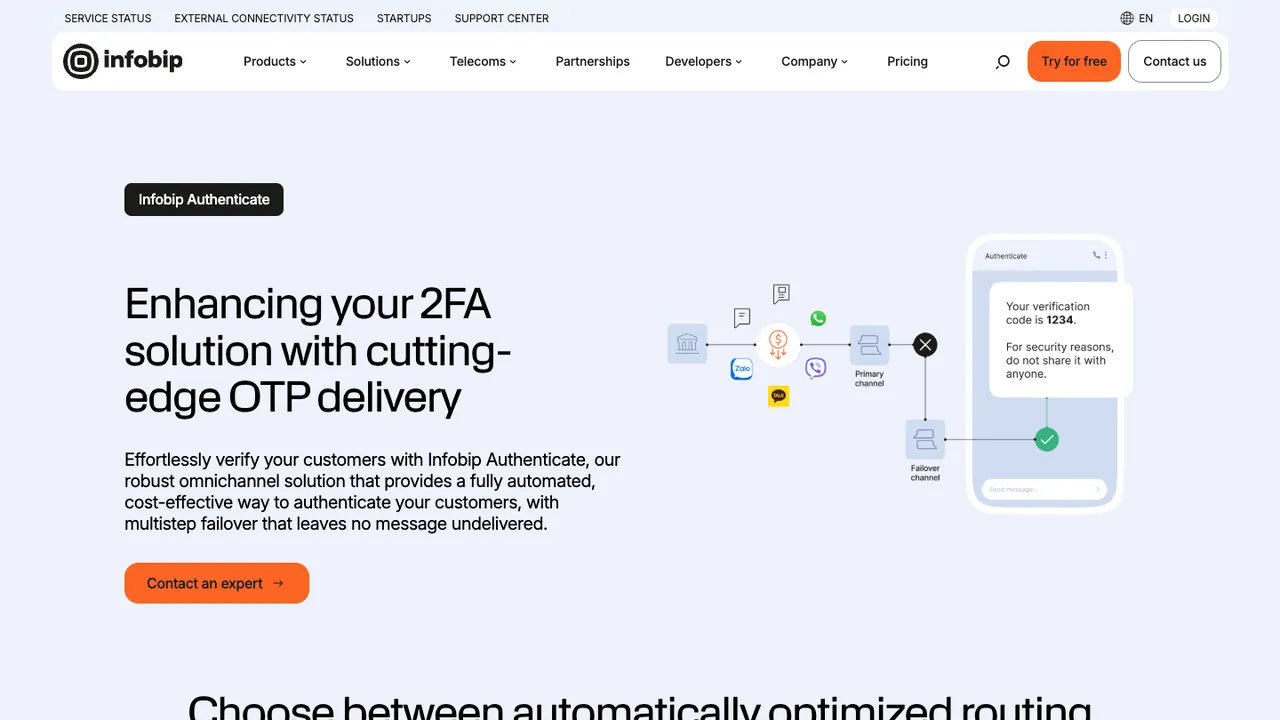
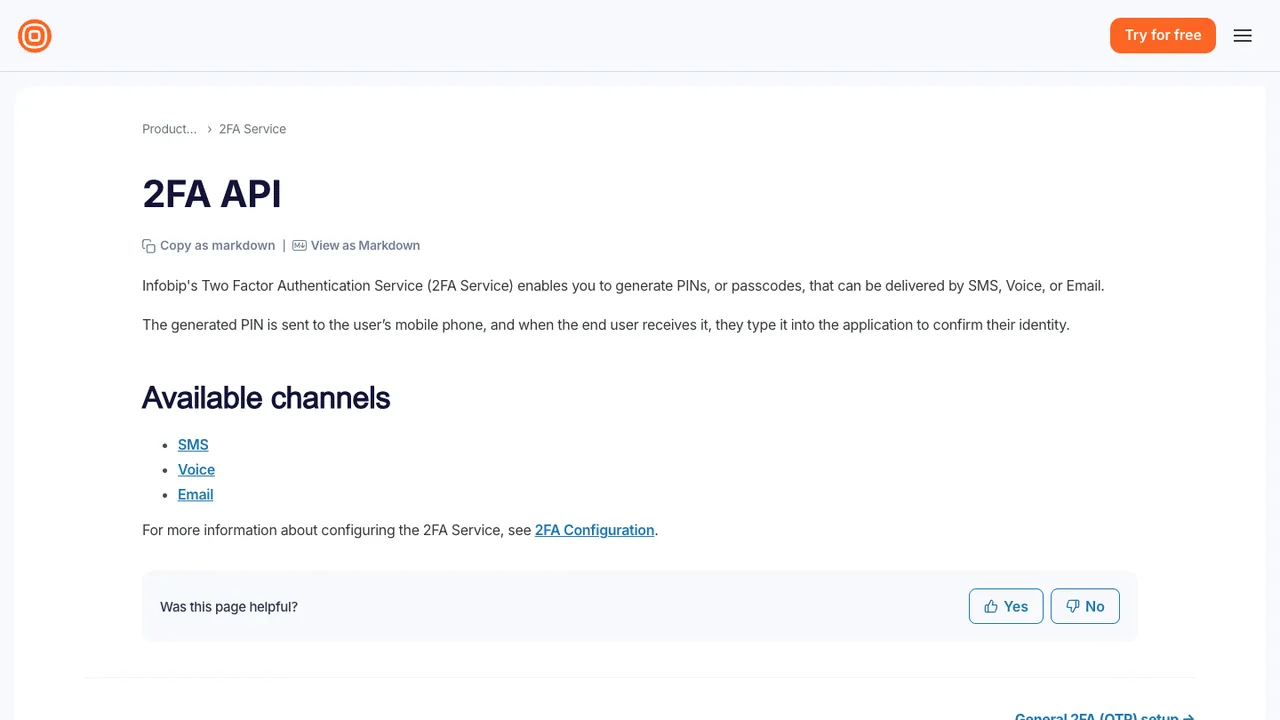
SMS OTP article: align Plivo facts, point Infobip at its 2FA API page
Plivo: its product and pricing pages list SMS, voice and WhatsApp with
no separate verification fee, while its availability docs describe SMS
and voice under a minimum monthly commitment. The article now says so
(matching the Twilio Verify alternatives article) instead of stating
that Plivo lacks WhatsApp.

Infobip: the copy describes the 2FA API (SMS, voice, email), so the
link and screenshot now use infobip.com/docs/2fa-service (captured 27
September 2026) instead of the Authenticate product page.

diff --git a/blog/best-sms-otp-providers/index.html b/blog/best-sms-otp-providers/index.html
@@ -232,11 +232,12 @@
       <figure class="post-shot">
         <img src="/assets/blog/best-sms-otp-providers/plivo-hero.webp" alt="Plivo Verify product page, with the headline “Verify new users with Plivo” and a phone showing a verification code." width="1280" height="720" loading="lazy" decoding="async">
       </figure>
-      <p><a href="https://www.plivo.com/verify/" target="_blank" rel="nofollow noopener">Plivo Verify</a> is a managed OTP service for sending and validating verification codes over SMS and voice. Like Twilio Verify, it handles OTP generation and validation, so you can add phone verification without building the full OTP lifecycle yourself.</p>
+      <p><a href="https://www.plivo.com/verify/" target="_blank" rel="nofollow noopener">Plivo Verify</a> is a managed OTP service for sending and validating verification codes over SMS, voice, and WhatsApp. Like Twilio Verify, it handles OTP generation and validation, so you can add phone verification without building the full OTP lifecycle yourself.</p>
       <p>A verification starts by sending the recipient’s phone number and delivery channel to the Verify API. Plivo generates the OTP and creates a verification session, and you use its Validate Session API to check the code entered by the user. You can also receive delivery status updates through webhooks.</p>
       <p>Plivo includes Fraud Shield for detecting SMS pumping. It monitors verification traffic and blocks messages it considers suspicious, with high, medium, and low protection levels depending on how aggressively you want it to filter traffic.</p>
       <p>Plivo Verify is currently offered to direct brands rather than resellers or ISVs, and access requires a minimum monthly commitment. A $1,000 monthly commitment covers the US, Canada, UK, Australia, India through ILDO routes, and countries that don’t require pre-registration. A $10,000 commitment adds markets where sender or brand registration is required.</p>
-      <p>Plivo Verify currently supports SMS and voice, so teams looking for WhatsApp or other messaging channels within the same verification product will find fewer options than with some of the other providers in this list.</p>
+      <p>Plivo doesn’t charge a separate verification fee, so you pay only the SMS, voice, or WhatsApp charges for the messages and calls used.</p>
+      <p>Plivo’s Verify product page lists SMS, voice, and WhatsApp, while its Verify availability documentation describes delivery over SMS and voice. If you plan to use WhatsApp, confirm that it’s enabled for your account.</p>
       <h2 id="vonage-verify">4. Vonage Verify</h2>
       <figure class="post-shot">
         <img src="/assets/blog/best-sms-otp-providers/vonage-hero.webp" alt="Vonage Verify API product page, showing the Verify API headline and an introductory video." width="1280" height="720" loading="lazy" decoding="async">
@@ -258,9 +259,9 @@
       <p>Sinch charges for verification attempts based on the method used. For SMS, the price depends on the destination country and operator, and Sinch charges for each SMS verification attempt.</p>
       <h2 id="infobip">6. Infobip</h2>
       <figure class="post-shot">
-        <img src="/assets/blog/best-sms-otp-providers/infobip-hero.webp" alt="Infobip Authenticate product page, with the headline “Enhancing your 2FA solution with cutting-edge OTP delivery.”" width="1280" height="720" loading="lazy" decoding="async">
+        <img src="/assets/blog/best-sms-otp-providers/infobip-hero.webp" alt="Infobip 2FA API documentation page, listing SMS, voice and email as the available channels." width="1280" height="720" loading="lazy" decoding="async">
       </figure>
-      <p><a href="https://www.infobip.com/authentication" target="_blank" rel="nofollow noopener">Infobip</a> provides a 2FA API for generating, sending, and verifying OTPs. The service supports OTP delivery through SMS, voice, and email.</p>
+      <p><a href="https://www.infobip.com/docs/2fa-service" target="_blank" rel="nofollow noopener">Infobip</a> provides a 2FA API for generating, sending, and verifying OTPs. The service supports OTP delivery through SMS, voice, and email.</p>
       <p>For SMS verification, you first configure a 2FA application and message template. When you make a request with the user’s phone number, Infobip generates a PIN and sends it using the configured template. You then submit the PIN entered by the user to Infobip for verification.</p>
       <p>Infobip lets you configure settings such as PIN length, PIN type, validity period, and the number of verification attempts allowed. Its APIs can also return delivery and verification information that you can use to track individual authentication attempts.</p>
       <p>Infobip has its own global messaging infrastructure and offers SMS pricing based on the destination country and message volume.</p>
